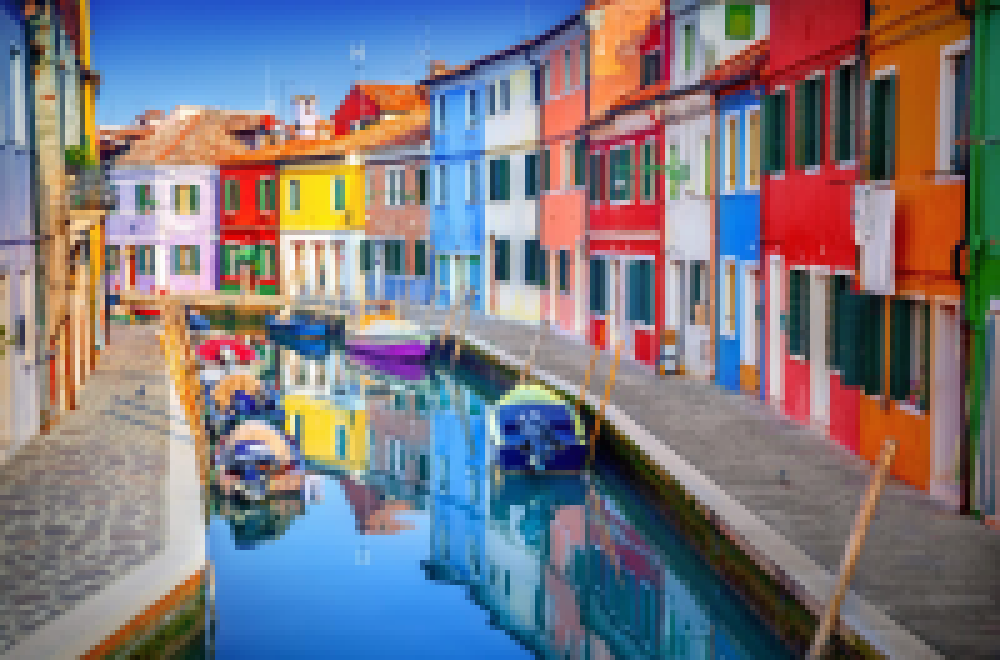
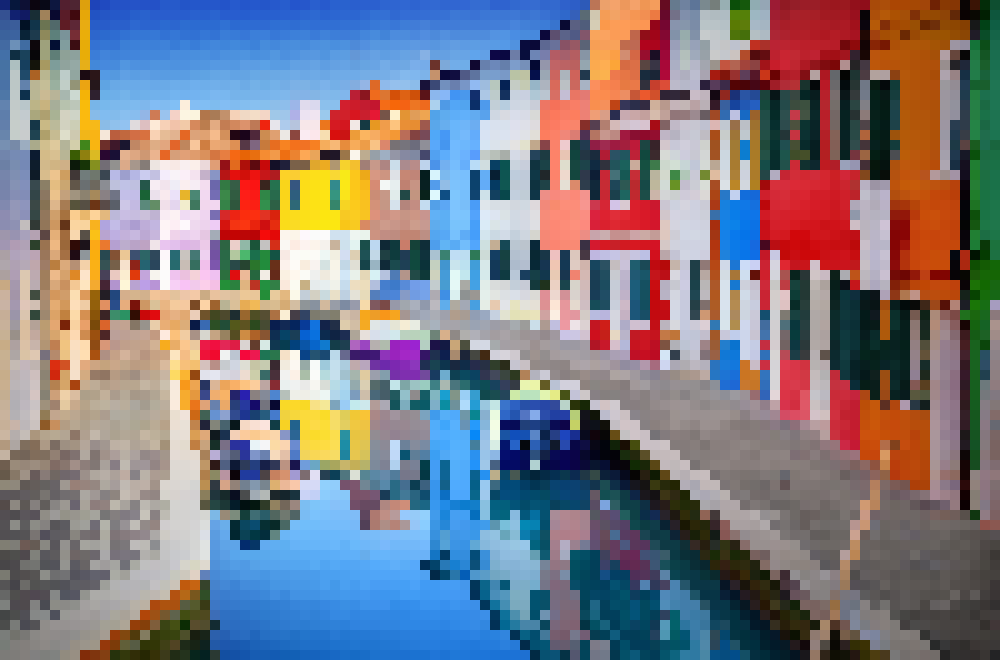
dominant color

diff --git a/mosaic.py b/mosaic.py
@@ -5,11 +5,19 @@ import argparse
 import cv2
 import skimage
 
-def average_color(data):
-    average_row_color = np.average(data, axis=0)
+def average_color(block):
+    average_row_color = np.average(block, axis=0)
     average_color = np.average(average_row_color, axis=0)
-
     return average_color
+
+def dominant_color(block):
+	pixels = np.float32(block.reshape(-1, 3))
+	n_colors = 5
+	criteria = (cv2.TERM_CRITERIA_EPS + cv2.TERM_CRITERIA_MAX_ITER, 200, .1)
+	flags = cv2.KMEANS_RANDOM_CENTERS
+	_, labels, palette = cv2.kmeans(pixels, n_colors, None, criteria, 10, flags)
+	_, counts = np.unique(labels, return_counts=True)
+	return palette[np.argmax(counts)]
 
 def generate_mosaic(reshaped_img, block_size = 5):
 	output = np.zeros(reshaped_img.shape)
@@ -21,9 +29,8 @@ def generate_mosaic(reshaped_img, block_size = 5):
 		for c in range(cols): 
 			h_pos = (block_size * r)
 			w_pos = (block_size * c)
-			chunk = reshaped_img[h_pos:h_pos+block_size, w_pos:w_pos+block_size]
-			color = average_color(chunk)
-			#chunk = find_best_match(chunk, color, reshaped_img)
+			block = reshaped_img[h_pos:h_pos+block_size, w_pos:w_pos+block_size]
+			color = dominant_color(block)
 			output[h_pos:h_pos+block_size, w_pos:w_pos+block_size] = color
 			
 
